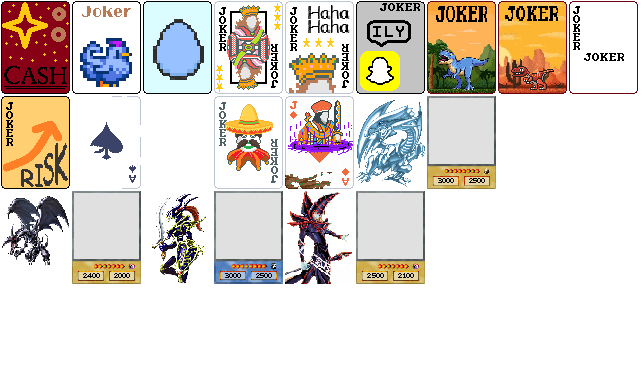
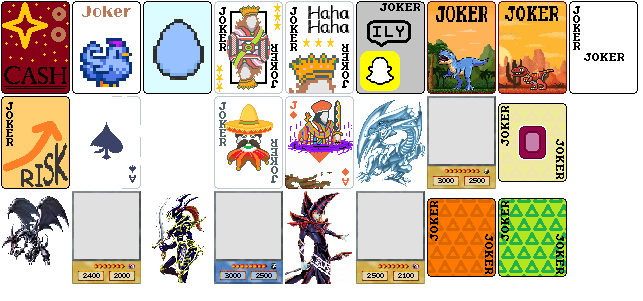
Three new jokers

diff --git a/README.md b/README.md
@@ -24,13 +24,16 @@ Just download the zip file, extract it and place it in your Mod folder.
 - Velocyraptor : +6 Mult if hand doesn't contain Ace
 - High Risk, High Reward : X6 Mult on High Card, 1/3 chances to destroy the playing card
 - Shredded Ace : Create an Ace at the start of the round and +1 Mult for each Ace
-- Pteranodon : If score hand is a 5, destroy it for 2$ and a Planet
+- Pteranodon : If score hand is a 5, destroy it for 2$ and a Planet (no art yet)
 - Pablo : Each other round, create a Food card
 - Jack Mutator : Each 4 round, modify the rank of a random card to Jack
 - Blue-Eyes White Dragon : +12 Mult for each Club and X1.75 for each 8 played
 - Red-Eyes Black Dragon : +12 Mult for each Spade and X1.75 for each Jack played
 - Black Luster Soldier : +8 Mult for each card played and X1.5 Mult for each 9 played
 - Dark Magician : +12 Mult for each Diamond and X1.75 for each 7 played
+- Pink Tourmaline : +12 Mult for each Holographic card held in hand
+- Moonstone : +65 Chips for each Foil card held in hand (art isn't done)
+- Rainbow Quartz : X0.7 Mult for each Polychrome card held in hand (art isn't done)
 
 *Some Joker has secret interaction with other Jokers*
 *Their is some secret jokers*
@@ -50,7 +53,7 @@ Just download the zip file, extract it and place it in your Mod folder.
 
 ## Additionnals Infos
 
-If a whole asset is in comment, don't remove it from the comment. It's an idea and it make the game crash.
+If a whole asset is in comment, don't remove it from the comment. It's an idea and this may cause the game to crash.
 
 
 ## Credits
